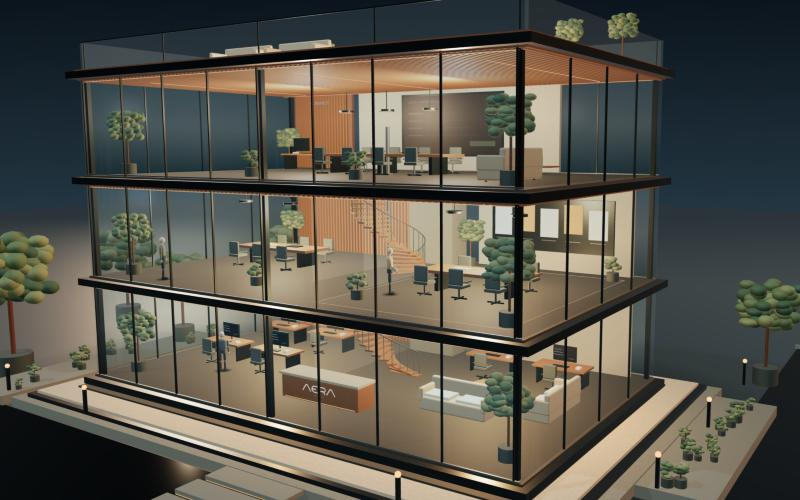
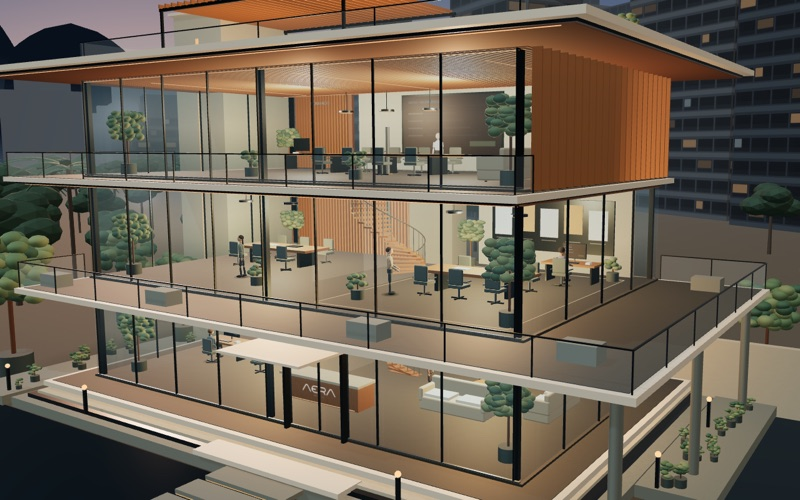
Tela de entrada: morros visíveis, miniaturas e contingência do pavilhão novo
A entrada ganha um enquadramento próprio, mais a leste, para os dois morros
subirem por cima da cobertura ao lado do título. As miniaturas das salas e a
imagem do modo de contingência passam a ser capturas da cena atual.

diff --git a/main.js b/main.js
@@ -34,7 +34,7 @@ export async function createOffice({selectZone,onFailure,onQuality,onNavigation=
   scrim.style.cssText='position:absolute;inset:0;pointer-events:none;opacity:0;transition:opacity .6s ease;background:linear-gradient(180deg,rgba(8,12,16,.78) 0%,rgba(8,12,16,.6) 46%,rgba(8,12,16,0) 74%)';stage.append(scrim);
   renderer.domElement.addEventListener('webglcontextlost', e => {e.preventDefault();failed=true;onFailure('A renderização 3D foi interrompida. Recarregue a página ou abra a apresentação offline.');});
   const camera = new THREE.PerspectiveCamera(36,width/height,.2,1600);
-  camera.position.set(40,12.5,36);
+  camera.position.set(47,12.5,28);
   const controls = new OrbitControls(camera,renderer.domElement);
   controls.target.set(0,6,0);
   controls.enableDamping = true;
@@ -360,7 +360,7 @@ export async function createOffice({selectZone,onFailure,onQuality,onNavigation=
   logo.colorSpace=THREE.SRGBColorSpace;
   const logoMesh=new THREE.Mesh(new THREE.PlaneGeometry(1.65,.407),new THREE.MeshBasicMaterial({map:logo,transparent:true,depthWrite:false}));
   logoMesh.position.set(.5,1.28,3.89);logoMesh.userData.noBatch=true;architecture.add(logoMesh);
-  const leblon=buildLeblon({scene,architecture,box,cylinder,sphere,material,materials,lantern,random,keepClear:[[66,60],[-28,40],[30,40],toWorld(74,46)],anisotropy:Math.min(8,renderer.capabilities.getMaxAnisotropy())});
+  const leblon=buildLeblon({scene,architecture,box,cylinder,sphere,material,materials,lantern,random,keepClear:[[66,60],[76,46],[-28,40],[30,40],toWorld(74,46)],anisotropy:Math.min(8,renderer.capabilities.getMaxAnisotropy())});
   // Cheap ambient contact shadow, independent of the single sun shadow map.
   const shadowCanvas=document.createElement('canvas');shadowCanvas.width=128;shadowCanvas.height=128;
   const sc=shadowCanvas.getContext('2d'),gradient=sc.createRadialGradient(64,64,12,64,64,64);
@@ -386,6 +386,8 @@ export async function createOffice({selectZone,onFailure,onQuality,onNavigation=
   renderer.shadowMap.needsUpdate=true;
   const views={
     all:{target:[-1,6.6,0],position:[40,12.5,36]},
+    // Entry screen: the title covers the left third, so the camera swings east until the twin peaks rise over the roof.
+    intro:{target:[-1,6.6,0],position:[47,12.5,28]},
     think:{target:[-4.7,6.9,.5],position:[-17,10.3,25]},
     create:{target:[4.7,6.9,.5],position:[20,10.5,25]},
     build:{target:[-5.2,2.6,.5],position:[-17,6.9,25]},
@@ -454,7 +456,7 @@ export async function createOffice({selectZone,onFailure,onQuality,onNavigation=
   function focus(zone,instant=false){
     if(!views[zone])return;
     viewMode='orbit';floorMode='all';controls.enabled=true;controls.minDistance=12;controls.maxDistance=110;clearClipping();markZone(zone);frameOffset();
-    const v=views[zone],target=new THREE.Vector3(...v.target),position=new THREE.Vector3(...v.position);
+    const v=zone==='all'&&!exploring?views.intro:views[zone],target=new THREE.Vector3(...v.target),position=new THREE.Vector3(...v.position);
     if(width<=900)position.sub(target).multiplyScalar(zone==='all'?(width<550?1.6:1.2):(width<550?1.75:1.25)).add(target);
     travel(position,target,{instant});
   }
